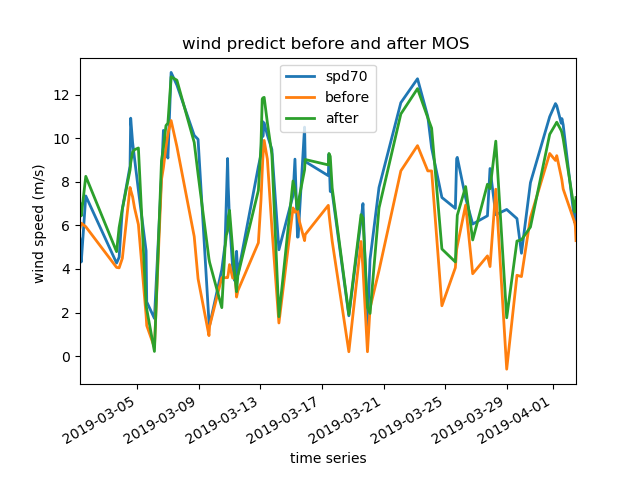
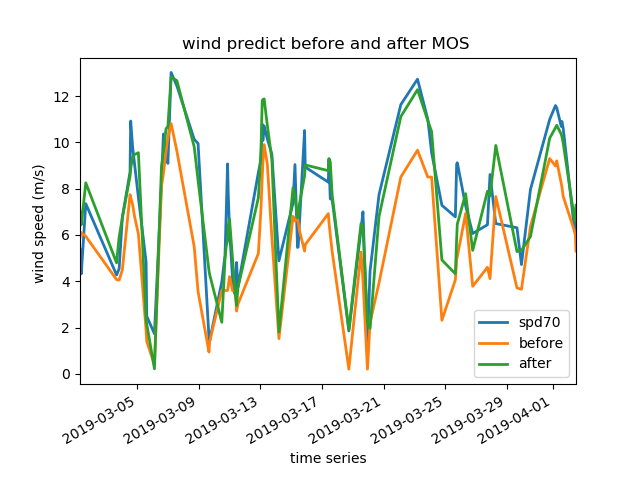
pchip update

diff --git a/plotseries.py b/plotseries.py
@@ -1,6 +1,12 @@
+# from pandas import Series
+# from pandas import DataFrame
+# from pandas import Grouper as TimeGrouper
+from scipy.interpolate import pchip
+from matplotlib import pyplot
 import pandas as pd
 import matplotlib.pyplot as plt
 import seaborn as sns
+import random
 
 
 # inputfile = './data/obs_prediction_3month.csv'
@@ -21,16 +27,14 @@ def datapandas():
     # print(data1['time_parsed'].head())
     data1['before'] = data1['before'] - 1.2
     # todo : if spd < 0; set spd = 0;
+    # print(type(data1))
     data_origin = pd.merge(data1,data2)
     del data_origin['time']
     data = data_origin.set_index("time_parsed")
-    print(data)
-    
-    # data = data_origin.set_index(time_parsed)
-    data.to_csv('./data/timeseries.csv',float_format="%.2f")
+    data=data[data.before>0] # above 0
     return data
 
-def plotfig(data):
+def plotfigTimeSeriesThreetoOne(data):
     plt = data.plot(lw=2,
                     title="wind predict before and after MOS ")
     plt.set_xlabel("time series")
@@ -40,9 +44,79 @@ def plotfig(data):
     fig.savefig("./plot/TimeSeriesThreetoOne.png")
     # plt.clf()
 
+def plotTimeGrouper(data):
+    series  =  Series.from_csv('./data/output_obs_prediction_3month_origin_one.csv',  header=0)
+    groups  =  series.groupby(TimeGrouper('A'))
+    print(groups)
+    years  =  DataFrame()
+
+# output predict timeseries to csv.
+# pchip 6hourly
+def dataoutput(data): 
+    print("dataoutput running")
+    print(data['before'].max())
+    print(data['before'].min())
+    print(data['after'].max())
+    print(data['after'].min())
+
+    def pchip_prepare(data):
+        data['timeindex'] = data.index # add a new column into data
+        time_index_origin = data['timeindex']  # timeindex column
+        # print(time_index_origin)
+        time_index = pd.to_datetime(time_index_origin)  #convert type to datetime
+        windpredict1h = data['after']
+        return time_index, windpredict1h
+    # train pchip obj
+    def pchip6h(time_index, windpredict1h):
+        pchip_obj_after1h = pchip(time_index, windpredict1h)
+        # convert to 6houly time_index
+        time_index_2 = pd.date_range(time_index.iloc[0], time_index.iloc[-1], freq = "360min")
+        # test & predict 
+        windpredict6h = pchip_obj_after1h(time_index_2) # * random.uniform(0.9,1.1) - 2
+        
+        time_index_2 = pd.Series(time_index_2)
+        windpredict6h = pd.Series(windpredict6h)
+        
+        framelist = [time_index_2, windpredict6h]
+        data6h = pd.concat(framelist, axis = 1)
+        #print(data6h.iloc[:,0])
+        return data6h
+    
+    def pchip6h_1h(time_index, windpredict1h):
+        # got data6h data
+        data6h = pchip6h(time_index, windpredict1h)
+        # convert 6hourly to hourly
+        # prepare data
+        time_index_6h = data6h.iloc[:,0]
+        winddata_6h = data6h.iloc[:,1]
+        pchip_obj_6h = pchip(time_index_6h, winddata_6h)
+        # convert to 6houly time_index
+        time_index_1h = pd.date_range(time_index_6h.iloc[0], time_index_6h.iloc[-1], freq = "60min")
+        # test & predict 
+        windpredict1h = pchip_obj_6h(time_index_1h)
+        # windpredict1h = pchip_obj_after1h(time_index_1h)
+        time_index_1h = pd.Series(time_index_1h)
+        windpredict1h = pd.Series(windpredict1h)
+        framelist = [time_index_1h, windpredict1h]
+        data1h = pd.concat(framelist, axis = 1)
+        return data1h
+    # output csv
+    def pchip6h_output6h(data6h):
+        data6h.to_csv('./data/timeseries6hourly.csv', index = False, float_format="%.2f")
+    def pchip6h_output1h(data1h):
+        data1h.to_csv('./data/timeseries1hourly.csv', index = False, float_format="%.2f")
+   
+    time_index, windpredict1h = pchip_prepare(data)
+    data6h = pchip6h(time_index, windpredict1h)
+    data1h = pchip6h_1h(time_index, windpredict1h)
+    pchip6h_output6h(data6h)
+    pchip6h_output1h(data1h)
+
 def main():
     data=datapandas()
-    plotfig(data)
+    plotfigTimeSeriesThreetoOne(data)
+    dataoutput(data)
+    # plotTimeGrouper(data) # todo
 
 if __name__ == '__main__':
     main()

diff --git a/mainECandGFS_falseallEC1417.py b/mainECandGFS_falseallEC1417.py
@@ -228,9 +228,9 @@ def plothot2():
     # cmap = sns.cubehelix_palette(start = 1.5, rot = 3, gamma=0.8, as_cmap = True)
     # sns.heatmap(uniform_data, ax=ax, cbar_ax = cbar_ax, square=True, linewidths = 0.05,vmax=1, cmap=cmap) # vmax=1, vmin=0,
     cmap="YlGnBu"
-    sns.heatmap(uniform_data, ax=ax, cbar_ax = cbar_ax, square=True, linewidths = 0.05,vmax=1, cmap=cmap,center = 0.7) # vmax=1, vmin=0,
+    sns.heatmap(uniform_data, ax=ax, cbar_ax = cbar_ax, square=True, linewidths = 0.05,vmax=1, cmap=cmap,center = 0.8) # vmax=1, vmin=0,
     
-    plt.savefig("plot/hotfig2.png")
+    plt.savefig("plot/hotfig3.png")
     plt.clf()
 plothot2()
 
@@ -245,7 +245,7 @@ def BuildModel():
     alpha = 0.05
     model = sm.OLS(y, X).fit()
 
-    # print(model.summary())
+    print(model.summary())
     return X,y
 X, y = BuildModel()
 X = X.drop('const', axis=1)
